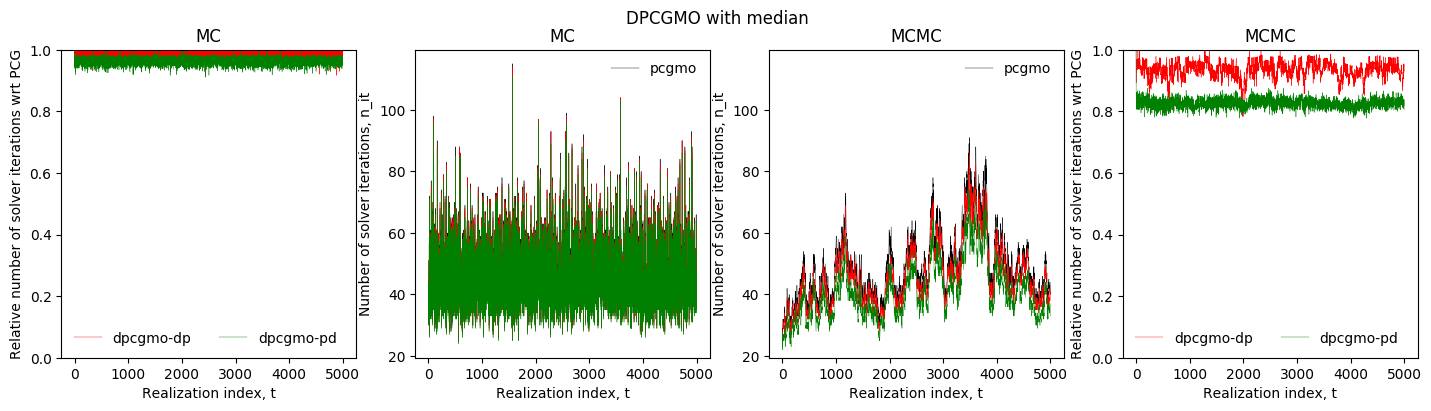
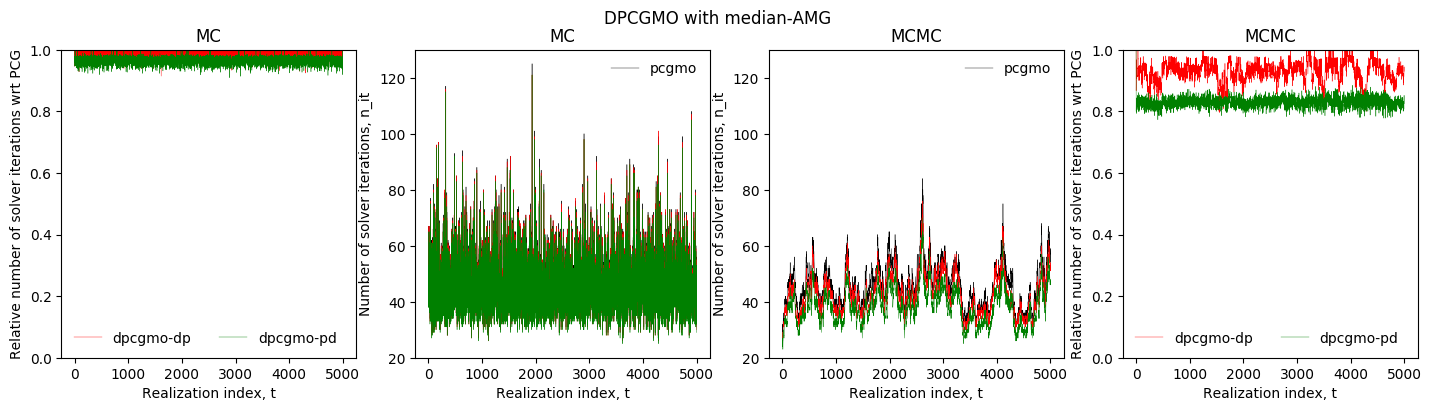
first-commit

diff --git a/README.tex.md b/README.tex.md
@@ -530,7 +530,7 @@ Output :
 
 #### Example #6: example06_recycler.py
 
-Solves the sequence $\{u(x;\theta_t)\}_{t=1}^M$ by DPCGMO for sequences $\{\kappa(x;\theta_t)\}_{t=1}^M$ sampled by MC and by MCMC. In both cases, a constant bJ preconditioner is used based on the median operator with 10 blocks. The effect of `dp_seq` is investigated on the number of solver iterations.
+Solves the sequence $\{u(x;\theta_t)\}_{t=1}^M$ by DPCGMO for sequences $\{\kappa(x;\theta_t)\}_{t=1}^M$ sampled by MC and by MCMC. In both cases, three different constant preconditioners are used : (1) median-bJ10, (2) median and (3) median-AMG. The effect of `dp_seq` is investigated on the number of solver iterations.
 
 ```python
 from samplers import sampler
